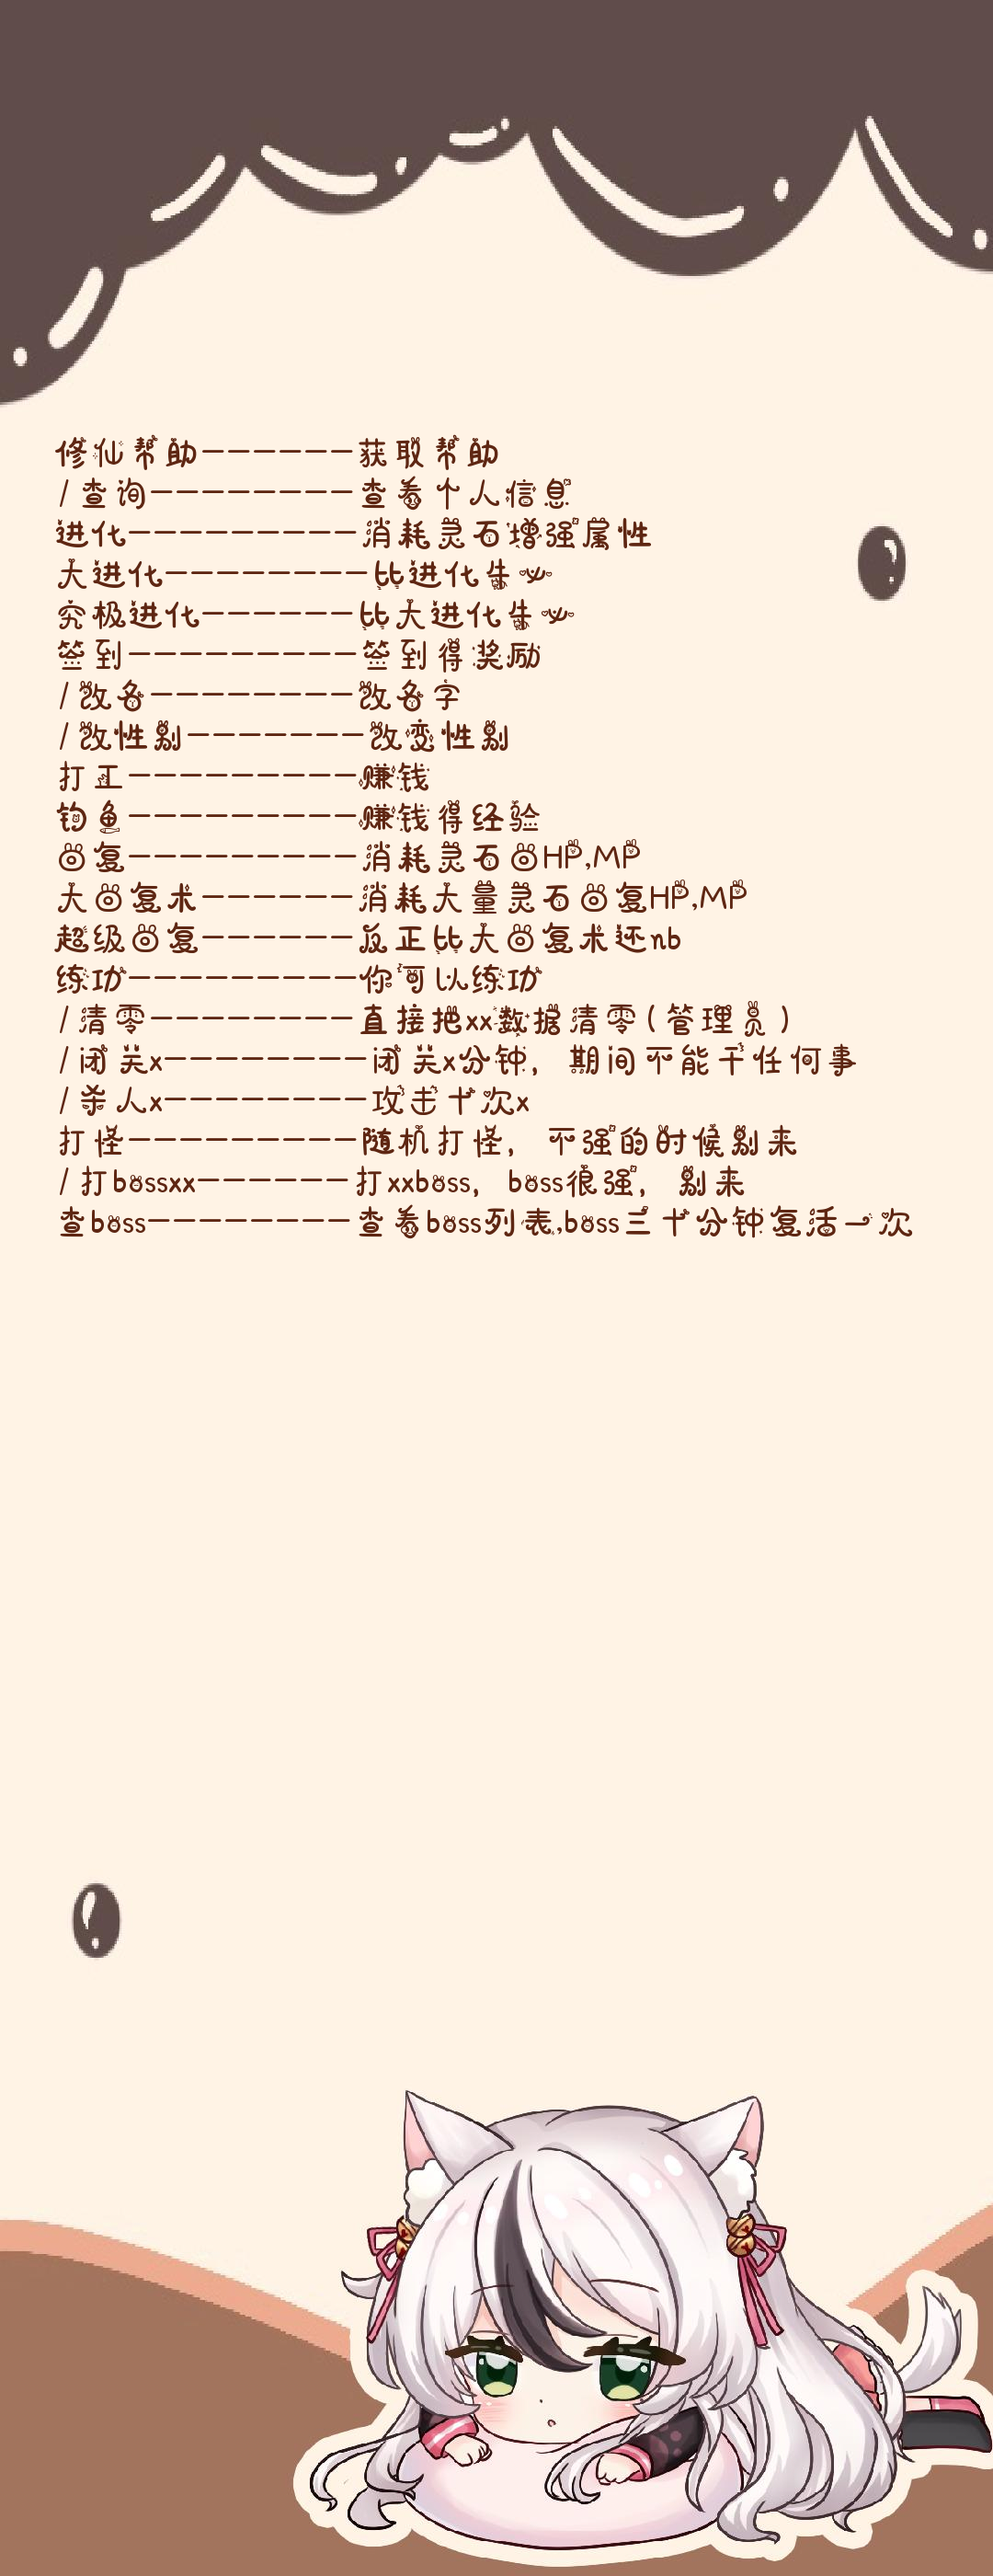
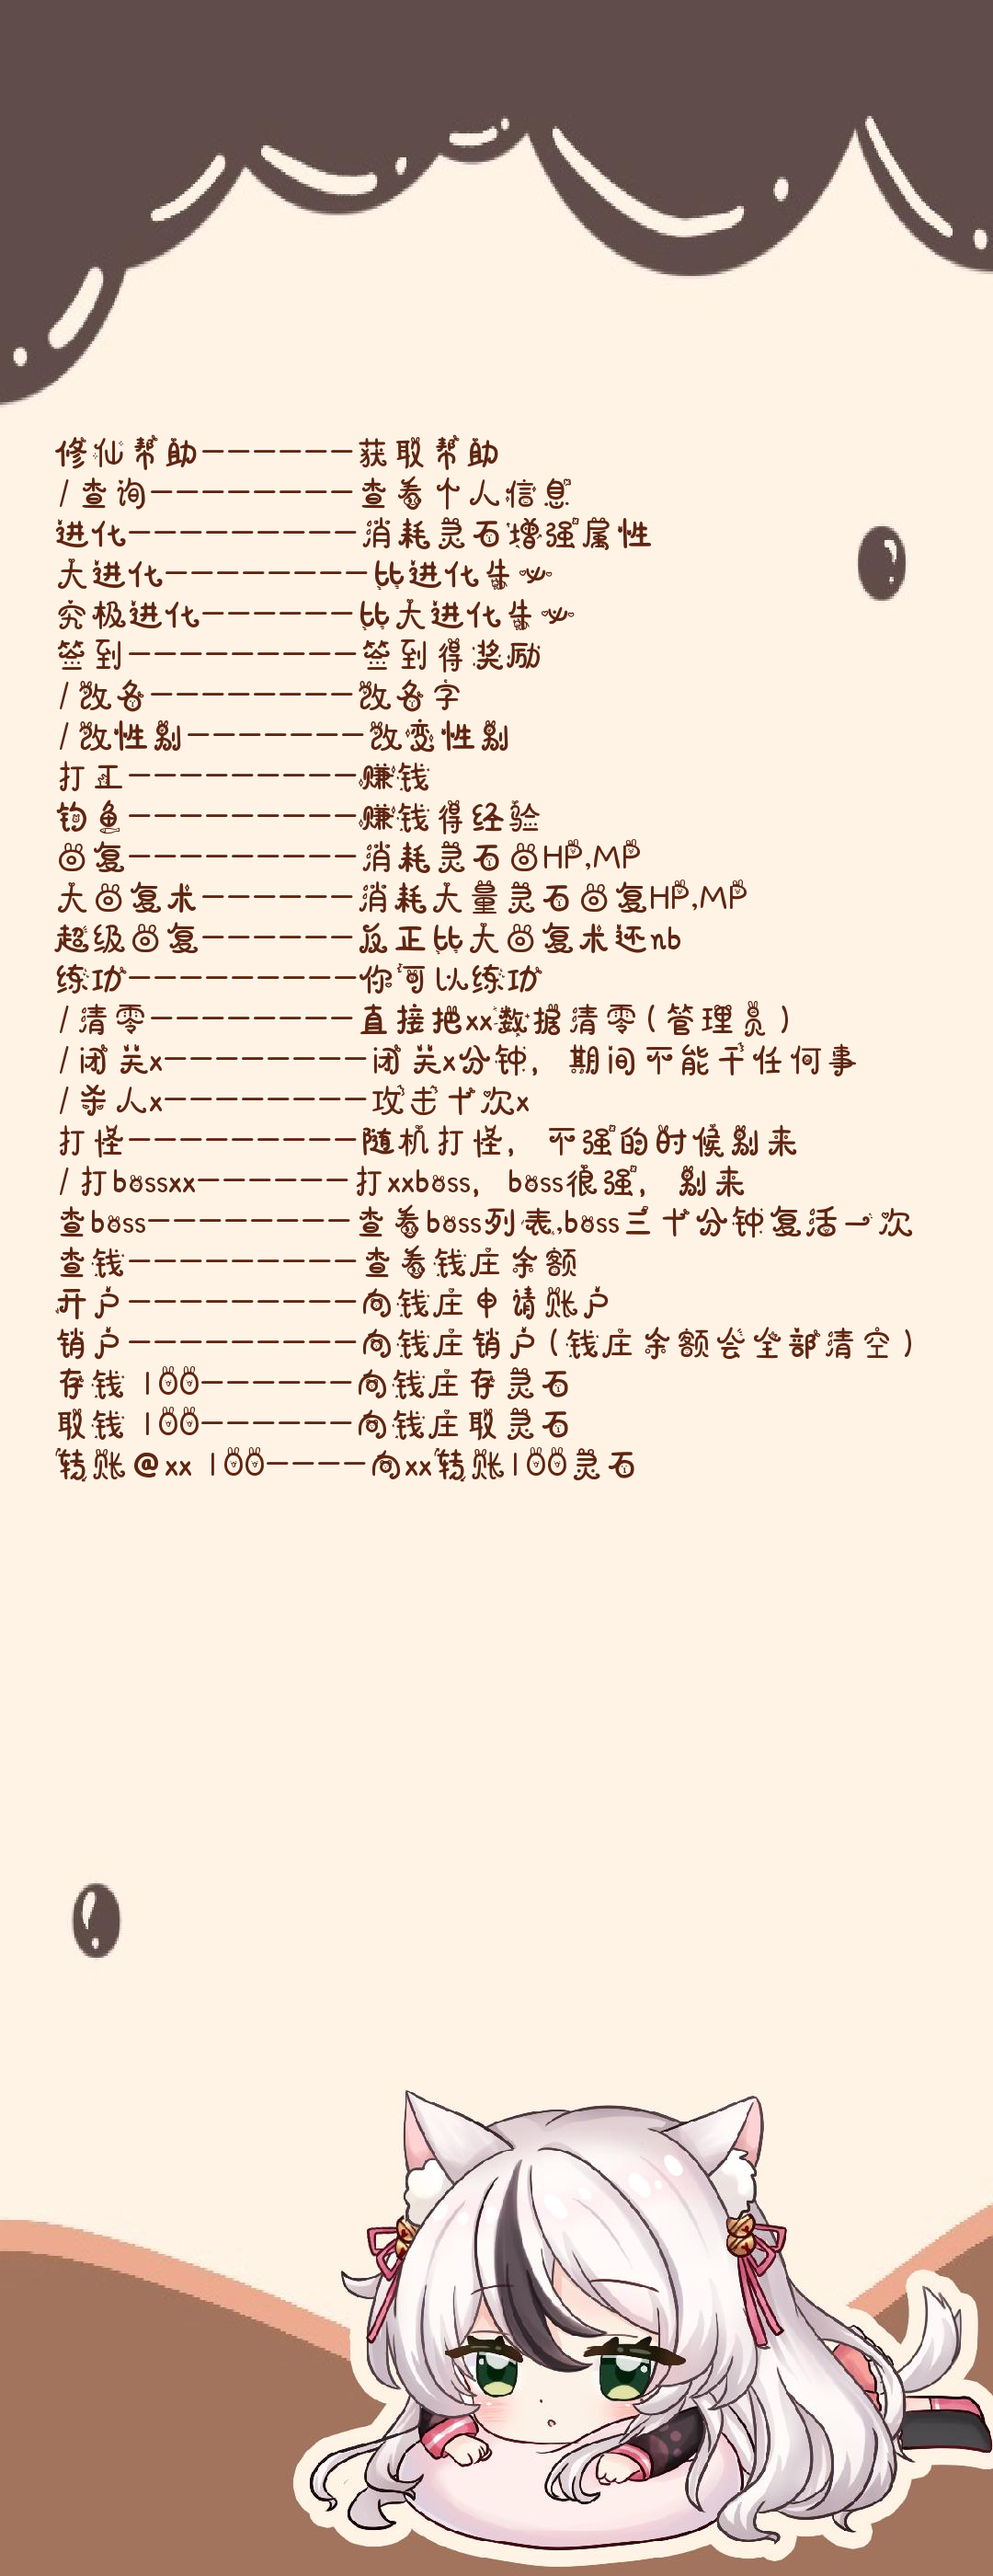
src

diff --git a/bot2/plugins/xiuxian/Money.py b/bot2/plugins/xiuxian/Money.py
@@ -1,0 +1,130 @@
+#!/bin/env python
+# -*- coding: utf-8 -*-
+"""
+@time: 2022/11/8 19:38
+@author: 0xchang
+@E-mail: oxchang@163.com
+@file: Money.py
+@Github: https://github.com/0xchang
+"""
+from nonebot.adapters.onebot.v11.message import Message
+from nonebot.adapters.onebot.v11 import GroupMessageEvent
+from nonebot.params import CommandArg
+from nonebot import on_command, on_fullmatch
+from bot2.plugins.xiuxian.Role import XianRole
+from bot2.plugins.xiuxian.Bank import BpushGold, BpopGold, BgetInfo, BnewInfo, BchangeGold, BdelInfo
+
+Bgetinfo = on_fullmatch('查钱')
+
+
+@Bgetinfo.handle()
+async def bgetinfo_handle(event: GroupMessageEvent):
+    uid = event.get_user_id()
+    u = XianRole(uid)
+    res = BgetInfo(u)
+    if res == []:
+        mess = '你好像没有在这个银行开户'
+    else:
+        res = res[0]
+        mess = f'你的银行余额为{res[1]}灵石!'
+    del u
+    await Bgetinfo.finish(Message(mess))
+
+
+Bnewinfo = on_fullmatch('开户')
+
+
+@Bnewinfo.handle()
+async def Bnewinfo_handle(event: GroupMessageEvent):
+    uid = event.get_user_id()
+    u = XianRole(uid)
+    name = u.getName()
+    if BnewInfo(u):
+        mess = f'{name}恭喜你开户成功!'
+    else:
+        mess = f'{name}开户失败，是不是已经开户了呢!'
+    del u
+    await Bnewinfo.finish(Message(mess))
+
+
+Bdelinfo = on_fullmatch('销户')
+
+
+@Bdelinfo.handle()
+async def Bdelinfo_handle(event: GroupMessageEvent):
+    uid = event.get_user_id()
+    u = XianRole(uid)
+    if BdelInfo(u):
+        mess = '销户成功,你的银行余额全部清空!'
+    else:
+        mess = '销户失败，你是不是没有开户呢!'
+
+    del u
+    await Bdelinfo.finish(Message(mess))
+
+
+Bpushgold = on_command('存钱')
+
+
+@Bpushgold.handle()
+async def bpushgold_handle(event: GroupMessageEvent, argcom: Message = CommandArg()):
+    uid = event.get_user_id()
+    argcom = argcom.extract_plain_text()
+    if not argcom.isdigit():
+        return
+    gold = int(argcom)
+    u = XianRole(uid)
+    name = u.getName()
+    if BpushGold(u, gold):
+        mess = f'{name}成功存灵石{gold}!'
+    else:
+        mess = f'{name}存灵石失败,没有银行账户或者身上灵石不足'
+
+    del u
+    await Bpushgold.finish((Message(mess)))
+
+
+Bpopgold = on_command('取钱')
+
+
+@Bpopgold.handle()
+async def bpopgold_handle(event: GroupMessageEvent, argcom: Message = CommandArg()):
+    uid = event.get_user_id()
+    argcom = argcom.extract_plain_text()
+    if not argcom.isdigit():
+        return
+    gold = int(argcom)
+    u = XianRole(uid)
+    name = u.getName()
+    if BpopGold(u, gold):
+        mess = f'{name}取灵石{gold}成功!'
+    else:
+        mess = f'{name}取灵石失败,应该是银行余额不足，或者你没有开户'
+
+    del u
+    await Bpopgold.finish(Message(mess))
+
+
+Bchangegold = on_command('转账')
+
+
+@Bchangegold.handle()
+async def Bchangegold_handle(event: GroupMessageEvent, argcom: Message = CommandArg()):
+    uid1 = event.get_user_id()
+    uid2 = argcom[0].get('data').get('qq')
+    if uid1==uid2:
+        await Bchangegold.finish(Message('不能给自己转账哦!'))
+    gold = argcom.extract_plain_text()
+    gold=gold.strip()
+    if not gold.isdigit():
+        return
+    gold = int(gold)
+    u1 = XianRole(uid1)
+    u2 = XianRole(uid2)
+    if BchangeGold(u1, u2, gold):
+        mess = f'{u1.getName()}成功向{u2.getName()}转账了{gold}灵石,请在钱庄查看余额!'
+    else:
+        mess = f'转账失败:\n1.你没有开户\n2.对方没有开户\n3.你的钱庄余额不足'
+    del u1
+    del u2
+    await Bchangegold.finish(Message(mess))

diff --git a/bot2/plugins/xiuxian/Bank.py b/bot2/plugins/xiuxian/Bank.py
@@ -1,0 +1,111 @@
+#!/bin/env python
+# -*- coding: utf-8 -*-
+"""
+@time: 2022/11/8 19:00
+@author: 0xchang
+@E-mail: oxchang@163.com
+@file: Bank.py
+@Github: https://github.com/0xchang
+"""
+from bot2.plugins.xiuxian.Role import XianRole
+import sqlite3
+
+
+# 查钱
+def BgetInfo(u: XianRole) -> list:
+    con = sqlite3.connect('data/xiuxian.data')
+    cur = con.cursor()
+    cur.execute('select * from bank where uid=?', (u.uid,))
+    con.commit()
+    val = cur.fetchall()
+    cur.close()
+    con.close()
+    return val
+
+
+# 销户
+def BdelInfo(u: XianRole) -> bool:
+    if BgetInfo(u)==[]:
+        return False
+    con = sqlite3.connect('data/xiuxian.data')
+    cur = con.cursor()
+    cur.execute('delete from bank where uid=?', (u.uid,))
+    con.commit()
+    cur.close()
+    con.close()
+    return True
+
+
+# 开户
+def BnewInfo(u: XianRole) -> bool:
+    if BgetInfo(u)!=[]:
+        return False
+    con = sqlite3.connect('data/xiuxian.data')
+    cur = con.cursor()
+    cur.execute('insert into bank(uid,gold) values(?,?)', (u.uid, 0))
+    con.commit()
+    cur.close()
+    con.close()
+    return True
+
+
+# 存钱
+def BpushGold(u: XianRole, gold: int) -> bool:
+    if gold < 0 or not isinstance(gold, int) or u.gold < gold or u.gold < 1:
+        return False
+    val = BgetInfo(u)
+    if val == []:
+        return False
+    val = val[0]
+    con = sqlite3.connect('data/xiuxian.data')
+    cur = con.cursor()
+    cur.execute('update bank set gold=? where uid=?', (val[1] + gold, u.uid))
+    con.commit()
+    cur.close()
+    con.close()
+    u.gold -= gold
+    return True
+
+
+# 取钱
+def BpopGold(u: XianRole, gold: int) -> bool:
+    if gold < 0 or not isinstance(gold, int):
+        return False
+    val = BgetInfo(u)
+    if val == []:
+        return False
+    val = val[0]
+    if val[1] < gold:
+        return False
+    con = sqlite3.connect('data/xiuxian.data')
+    cur = con.cursor()
+    cur.execute('update bank set gold=? where uid=?', (val[1] - gold, u.uid))
+    con.commit()
+    cur.close()
+    con.close()
+    u.gold += gold
+    return True
+
+
+# 转账
+def BchangeGold(u1: XianRole, u2: XianRole, gold: int) -> bool:
+    if gold < 0 or not isinstance(gold, int):
+        return False
+    val1 = BgetInfo(u1)
+    val2 = BgetInfo(u2)
+    if val1 == []:
+        return False
+    if val2 == []:
+        return False
+    val1 = val1[0]
+    val2 = val2[0]
+    if val1[1] < gold:
+        return False
+    con = sqlite3.connect('data/xiuxian.data')
+    cur = con.cursor()
+    cur.execute('update bank set gold=? where uid=?', (val1[1] - gold, val1[0]))
+    cur.execute('update bank set gold=? where uid=?', (val2[1] + gold, val2[0]))
+    con.commit()
+    cur.close()
+    con.close()
+    return True

diff --git a/bot2/plugins/xiuxian/__init__.py b/bot2/plugins/xiuxian/__init__.py
@@ -18,11 +18,13 @@ def create_xian():
     create_chenghao_sql = 'create table if not exists chenghao(uid int,kill int,fish int,dazuo int,work int)'
     create_monster_sql = 'create table if not exists monsters(name text,HP int,attack int,defense int)'
     create_mboos_sql = 'create table if not exists monboss(name text,HP int,attack int,defense int,live int)'
+    create_bank_sql='create table if not exists bank(uid int,gold int)'
     cur.execute(create_xian_sql)
     cur.execute(create_xiulian_sql)
     cur.execute(create_chenghao_sql)
     cur.execute(create_monster_sql)
     cur.execute(create_mboos_sql)
+    cur.execute(create_bank_sql)
     con.commit()
     cur.close()
     con.close()

diff --git a/bot2/plugins/xiuxian/helpxiuxian.py b/bot2/plugins/xiuxian/helpxiuxian.py
@@ -35,6 +35,12 @@ def create_xiuxian_help():
     打怪---------随机打怪，不强的时候别来
     /打bossxx------打xxboss，boss很强，别来
     查boss--------查看boss列表,boss三十分钟复活一次
+    查钱---------查看钱庄余额
+    开户---------向钱庄申请账户
+    销户---------向钱庄销户(钱庄余额会全部清空)
+    存钱 100------向钱庄存灵石
+    取钱 100------向钱庄取灵石
+    转账@xx 100----向xx转账100灵石
     '''
     lino_path=os.path.join(os.getcwd(),'img','lino.jpg')
     current=Image.open(lino_path)

diff --git a/README.md b/README.md
@@ -16,6 +16,9 @@ nb run
 #注意.env.dev中的端口需和go-cqhttp当中的端口一致
 ```
 
+### 更新2022-11-8
+增加银行系统
+
 ### 更新2022-11-5
 优化代码，添加投稿，置顶功能。
 优化修仙功能。
